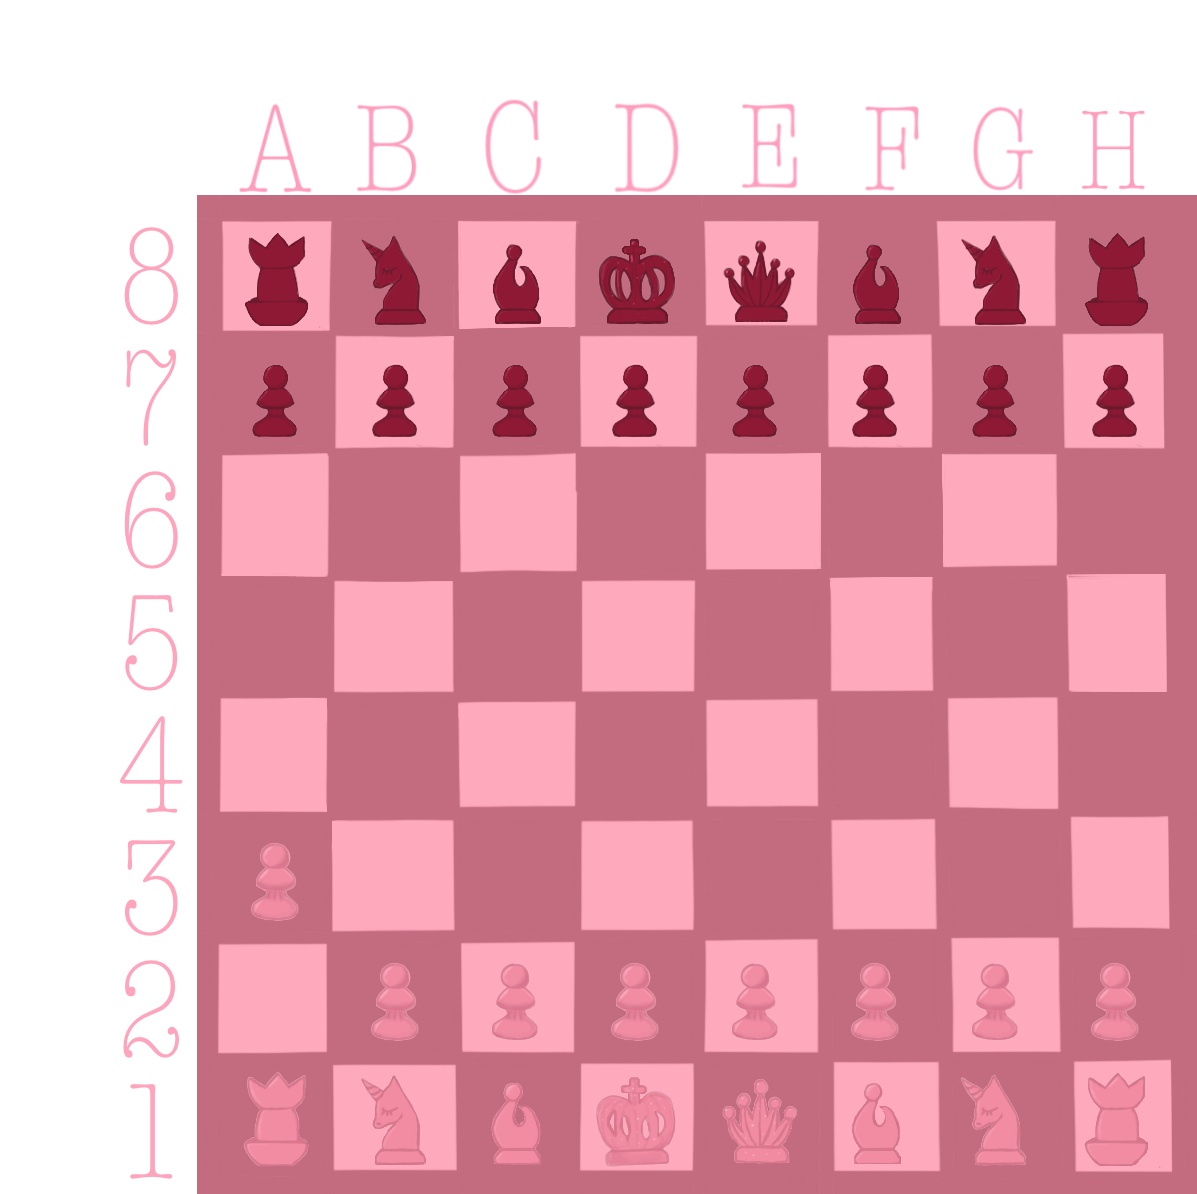
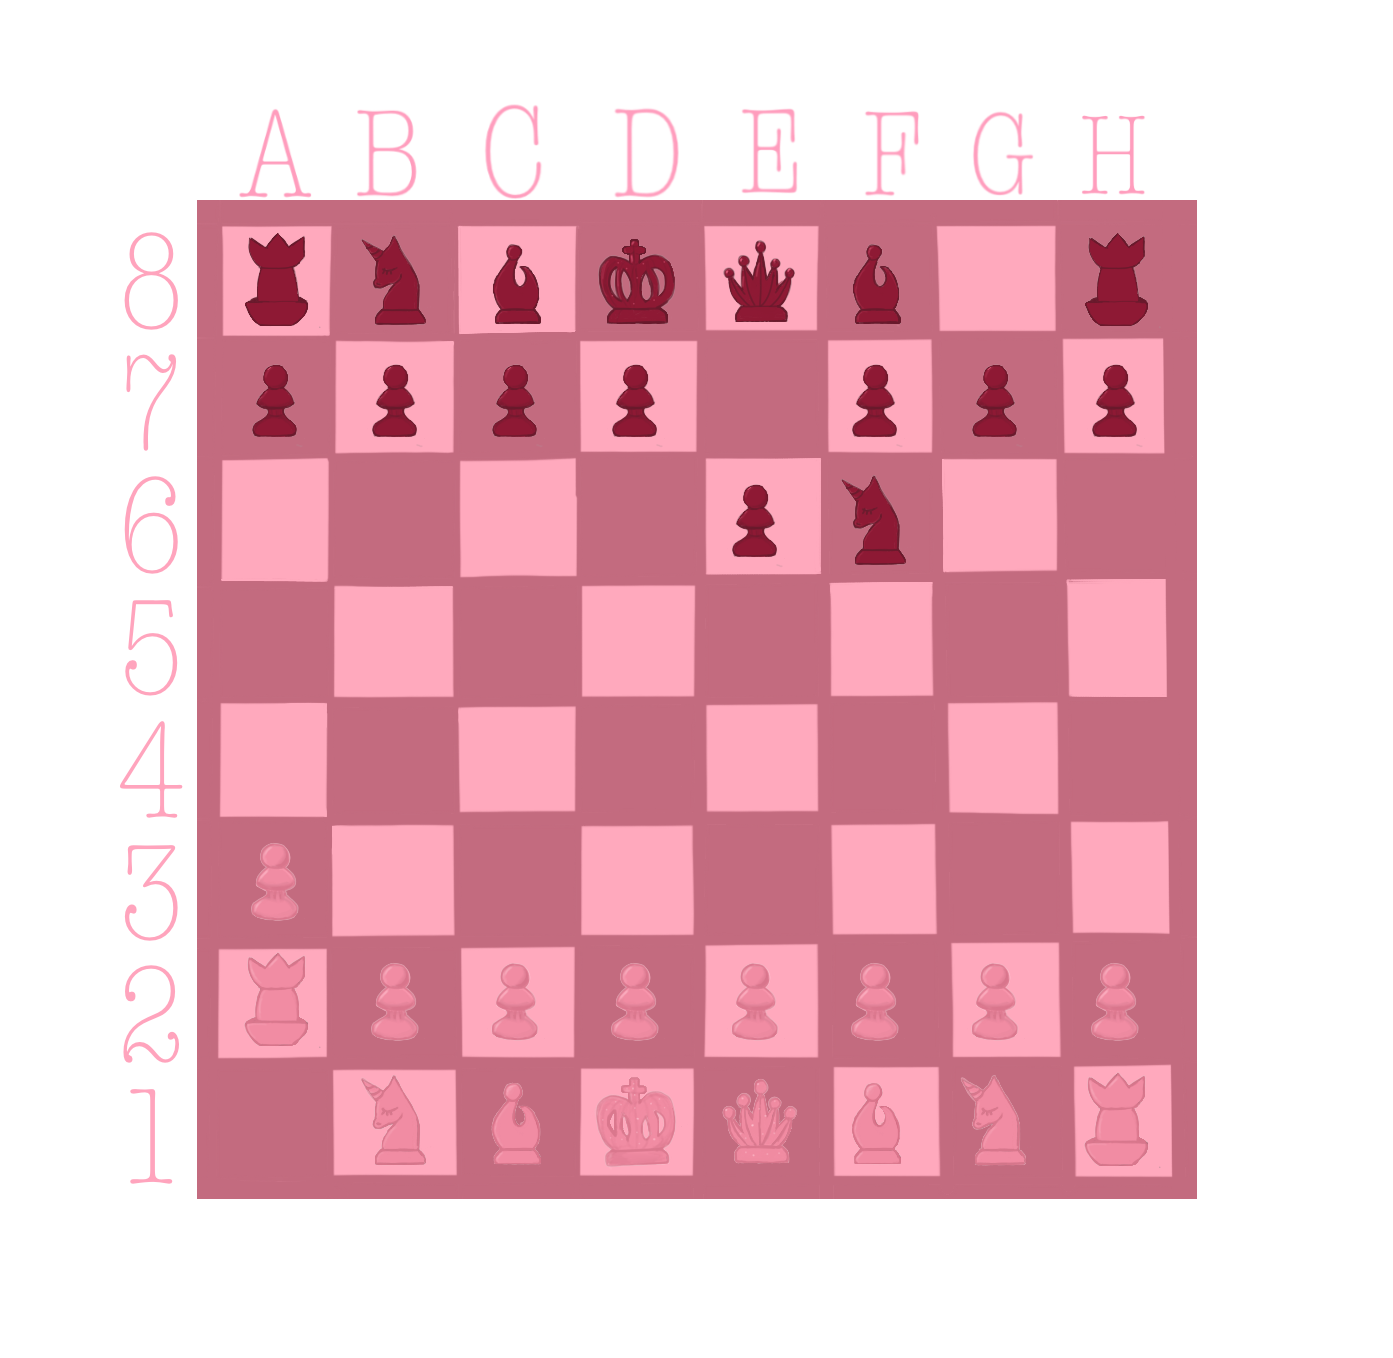
лил патч починита ладья и пешки хелп разделение на команды пошаговость

diff --git a/main.py b/main.py
@@ -6,7 +6,7 @@ from config import BOT_TOKEN
 from telegram import ReplyKeyboardMarkup, ReplyKeyboardRemove
 import telebot
 from image_board import draw_board
-import asyncio
+
 
 bot = telebot.TeleBot(BOT_TOKEN)
 logging.basicConfig(
@@ -15,55 +15,57 @@ logging.basicConfig(
 
 logger = logging.getLogger(__name__)
 
-reply_keyboard = [['/start']]
-markup = ReplyKeyboardMarkup(reply_keyboard, one_time_keyboard=False)
+start_reply_keyboard = [['/start']]
+hub_reply_keyboard = [['/find_game', '/rating'], ['/help', '/bye']]
+quit_reply_keyboard = [['/quit']]
+markup = ReplyKeyboardMarkup(start_reply_keyboard, one_time_keyboard=False)
 
 
 async def hello(update, context):
-    global reply_keyboard, markup
-    reply_keyboard = [['/find_game'], ['/rating', '/bye']]
-    markup = ReplyKeyboardMarkup(reply_keyboard, one_time_keyboard=False)
+    markup = ReplyKeyboardMarkup(hub_reply_keyboard, one_time_keyboard=False)
     db_parser.add_in_stats(update.message.chat.id)
     await update.message.reply_text('приветик(приветик)', reply_markup=markup)
     return 1
-
-
-async def start_game(update, context):
-    global BOARD
-    reply_keyboard = [['/quit']]
-    markup = ReplyKeyboardMarkup(reply_keyboard, one_time_keyboard=False)
-    await update.message.reply_text("начинаю игру", reply_markup=markup)
-    BOARD = chess.Board()
-    draw_board(BOARD.board)
-    await update.message.reply_photo('data/result.png')
-    return 2
 
 
 async def find_game(update, context):
     if db_parser.user_in_game(update.message.chat.id):
         BOARD = chess.Board()
         BOARD.board = db_parser.get_board(update.message.chat.id)
-        message = update.message.text.split()
-        move_chess = BOARD.move(message[0], message[1])
-        draw_board(BOARD.board)
-        await update.message.reply_photo('data/result.png',
-                                         caption=(move_chess if move_chess != 0 else f'{message[0]} -> {message[1]}'))
-        await context.bot.send_photo(chat_id=db_parser.get_foe(update.message.chat.id),
-                                     photo=open('data/result.png', 'rb'),
-                                     caption=('Противник делает: ' +
-                                              (move_chess if move_chess != 0 else f'{message[0]} -> {message[1]}')))
-        db_parser.update_board(update.message.chat.id, BOARD.board)
+        if db_parser.is_turn(update.message.chat.id)[0]:
+            message = update.message.text.split()
+            move_chess = BOARD.move(message[0], message[1], db_parser.is_turn(update.message.chat.id)[1])
+            draw_board(BOARD.board)
+            if move_chess:
+                await update.message.reply_photo('data/result.png',
+                                                 caption=f'**{move_chess}**',
+                                                 parse_mode='MarkdownV2')
+            else:
+                check_kings = BOARD.check_kings()
+                await update.message.reply_photo('data/result.png',
+                                                 caption=f'{message[0]} -> {message[1]}\n{check_kings}')
+                await context.bot.send_photo(chat_id=db_parser.get_foe(update.message.chat.id),
+                                             photo=open('data/result.png', 'rb'),
+                                             caption=f'Противник делает: {message[0]} -> {message[1]}\n{check_kings}')
+                db_parser.update_board(update.message.chat.id, BOARD.board)
+                db_parser.change_turn(update.message.chat.id)
+        else:
+            await update.message.reply_text('не твой ход жди пока противник походит')
     else:
-        reply_keyboard = [['/quit']]
-        markup = ReplyKeyboardMarkup(reply_keyboard, one_time_keyboard=False)
+        markup = ReplyKeyboardMarkup(quit_reply_keyboard, one_time_keyboard=False)
         await update.message.reply_text("ищу игру", reply_markup=markup)
         queue_users = db_parser.get_users_from_queue(update.message.chat.id)
         if queue_users:
             foe_user = queue_users[0][0]
             db_parser.delete_from_queue(foe_user)
             db_parser.create_board(int(str(update.message.chat.id) + str(foe_user)))
-            await update.message.reply_text('ПРИКОЛЯМБУС')
-            await context.bot.send_message(chat_id=foe_user, text='ПРИКОЛЯМБУС')
+            await update.message.reply_text(f'игра найдена подключаюсь к {bot.get_chat(foe_user).first_name}\n'
+                                            f'вы играете за белых',
+                                            reply_markup=markup, parse_mode='MarkdownV2')
+            await context.bot.send_message(chat_id=foe_user,
+                                           text=f'игра найдена подключаюсь к {update.message.chat.first_name}\n'
+                                                f'вы играете за черных',
+                                           reply_markup=markup, parse_mode='MarkdownV2')
             BOARD = chess.Board()
             BOARD.board = db_parser.get_board(update.message.chat.id)
             draw_board(BOARD.board)
@@ -75,19 +77,6 @@ async def find_game(update, context):
     return 2
 
 
-async def game(update, context):
-    global BOARD
-    message = update.message.text.split()
-    if BOARD:
-        move_chess = BOARD.move(message[0], message[1])
-        draw_board(BOARD.board)
-        await update.message.reply_photo('data/result.png', caption=(move_chess if move_chess != 0
-                                                                     else f'{message[0]} -> {message[1]}'))
-        return 2
-    else:
-        await update.message.reply_text('bbbb')
-
-
 async def rating(update, context):
     need_message = db_parser.get_rating(update.message.chat.id)
     await update.message.reply_text(f"общий рейтинг:{need_message[0]}\n"
@@ -96,19 +85,28 @@ async def rating(update, context):
 
 
 async def bye(update, context):
-    global reply_keyboard, markup
-    reply_keyboard = [['/start']]
-    markup = ReplyKeyboardMarkup(reply_keyboard, one_time_keyboard=False)
+    markup = ReplyKeyboardMarkup(start_reply_keyboard, one_time_keyboard=False)
     await update.message.reply_text("bye", reply_markup=markup)
     return ConversationHandler.END
 
 
 async def quit(update, context):
-    reply_keyboard = [['/find_game'], ['/rating', '/bye']]
-    markup = ReplyKeyboardMarkup(reply_keyboard, one_time_keyboard=False)
+    markup = ReplyKeyboardMarkup(hub_reply_keyboard, one_time_keyboard=False)
     db_parser.delete_from_queue(update.message.chat.id)
     await update.message.reply_text('выхожу из очереди', reply_markup=markup)
     return 1
+
+
+async def help(update, context):
+    await update.message.reply_text("""хелп
+    /find_game - найти игру
+    /rating - показать рейтинг ваш и других игроков
+    /bye - пока""")
+    return 1
+
+
+async def default_ans(update, context):
+    await update.message.reply_text('/help для хелп')
 
 
 def main():
@@ -116,7 +114,8 @@ def main():
     conv_handler = ConversationHandler(
         entry_points=[CommandHandler('start', hello)],
         states={
-            1: [CommandHandler('find_game', find_game), CommandHandler('rating', rating)],
+            1: [CommandHandler('find_game', find_game), CommandHandler('rating', rating), CommandHandler('help', help),
+                MessageHandler(filters.TEXT & ~filters.COMMAND, default_ans)],
             2: [MessageHandler(filters.TEXT & ~filters.COMMAND, find_game), CommandHandler('quit', quit)]
         },
         fallbacks=[CommandHandler('bye', bye)]

diff --git a/chess.py b/chess.py
@@ -23,7 +23,7 @@ class Board:
             King('b'), Bishop('b'), Knight('b'), Rook('b')
         ]
 
-    def move(self, pos1, pos2):
+    def move(self, pos1, pos2, turn=None):
         litterals = {'A': 0, 'B': 1, 'C': 2, 'D': 3, 'E': 4, 'F': 5, 'G': 6, 'H': 7}
         if len(pos1) == 2 and len(pos2) == 2 and pos1[1].isdigit() and pos2[1].isdigit():
             if pos1[0] in litterals.keys() and pos2[0] in litterals.keys() \
@@ -31,12 +31,24 @@ class Board:
                 new_pos1 = (8 - int(pos1[1]), litterals[pos1[0]])
                 new_pos2 = (8 - int(pos2[1]), litterals[pos2[0]])
                 if self.board[new_pos1[0]][new_pos1[1]]:
+                    if not ((not turn is None) and (not turn and self.board[new_pos1[0]][new_pos1[1]].team == 'w'
+                                                    or turn and self.board[new_pos1[0]][new_pos1[1]].team == 'b')):
+                        return 'не твоя фигура'
                     if self.board[new_pos1[0]][new_pos1[1]].move_to(self.board, new_pos1, new_pos2) == 0:
                         self.board[new_pos2[0]][new_pos2[1]] = self.board[new_pos1[0]][new_pos1[1]]
                         self.board[new_pos1[0]][new_pos1[1]] = None
                         return 0
                     return self.board[new_pos1[0]][new_pos1[1]].move_to(self.board, new_pos1, new_pos2)
         return 'хдд'
+
+    def check_kings(self):
+        res = []
+        for y in range(len(self.board)):
+            for x in range(len(self.board[0])):
+                if self.board[y][x].__class__.__name__ == 'King':
+                    if self.board[y][x].is_in_danger(self.board, (y, x)) != 0:
+                        res.append('шах ' + self.board[y][x].team)
+        return res.join('\n')
 
 
 class Piece:
@@ -70,7 +82,10 @@ class Pawn(Piece):
     def move_to(self, board, pos1, pos2, kings_check=True):
         if self.general_check(board, pos1, pos2):
             return self.general_check(board, pos1, pos2)
-        if (self.team == 'w' and pos1[0] - pos2[0] == 1) or (self.team == 'b' and pos2[0] - pos1[0] == 1):
+        if (self.team == 'w' and pos1[0] - pos2[0] == 1 or (pos1[0] - pos2[0] == 2 and pos1[0] == 6 and
+                                                            not board[pos2[0]][pos2[1]])) or\
+            (self.team == 'b' and pos2[0] - pos1[0] == 1 or (pos2[0] - pos1[0] == 2 and pos1[0] == 1 and
+                                                             not board[pos2[0]][pos2[1]])):
             if (board[pos2[0]][pos2[1]] and abs(pos2[1] - pos1[1]) == 1) or \
                     ((not board[pos2[0]][pos2[1]]) and pos2[1] - pos1[1] == 0):
                 if kings_check:
@@ -87,7 +102,7 @@ class Rook(Piece):
     def move_to(self, board, pos1, pos2, kings_check=True):
         if self.general_check(board, pos1, pos2):
             return self.general_check(board, pos1, pos2)
-        if pos2[0] == pos1[0] and pos2[1] != pos2[0] or pos2[0] != pos1[0] and pos2[1] == pos2[0]:
+        if pos2[0] == pos1[0] and pos2[1] != pos1[1] or pos2[0] != pos1[0] and pos2[1] == pos1[1]:
             if pos2[0] == pos1[0]:
                 if any([board[pos1[0] + i * ((pos2[0] - pos1[0]) / abs(pos2[0] - pos1[0]))][pos1[1]]
                         for i in range(abs(pos2[0] - pos1[0]))]):

diff --git a/db_parser.py b/db_parser.py
@@ -20,13 +20,13 @@ def add_in_stats(id):
     con.commit()
     con.close()
 
+
 def get_rating(id):
     con = sqlite3.connect("dbs/stats.sqlite")
     cur = con.cursor()
     res1 = cur.execute(f"SELECT user_id, rating FROM stats").fetchmany(10)
     res2 = cur.execute(f"SELECT user_id, rating FROM stats WHERE user_id == {id}").fetchone()
     return res1, res2
-
 
 
 def add_in_queue(id):
@@ -64,6 +64,8 @@ def create_board(id):
                     for x in brd])
     con = sqlite3.connect("dbs/boards.sqlite")
     cur = con.cursor()
+    id = str(id)
+    cur.execute(f"DELETE from boards where user_id = '{id}' or user_id = '{id[:len(id) // 2] + id[len(id) // 2:]}'")
     cur.execute(f"INSERT INTO boards(user_id, board) VALUES('{id}', '{brd}')")
     con.commit()
     con.close()
@@ -123,6 +125,32 @@ def get_foe(id):
     for i in res:
         if id in (i[:len(i) // 2], i[len(i) // 2:]):
             return int(i[:len(i) // 2]) if id != i[:len(i) // 2] else int(i[len(i) // 2:])
+
+
+def is_turn(id):
+    con = sqlite3.connect("dbs/boards.sqlite")
+    cur = con.cursor()
+    res = cur.execute(f"SELECT user_id, move FROM boards").fetchall()
+    con.commit()
+    con.close()
+    id = str(id)
+    for i in res:
+        print(i)
+        if id in (i[0][:len(i[0]) // 2], i[0][len(i[0]) // 2:]):
+            if id == i[0][:len(i[0]) // 2] and i[1] == 0 or id == i[0][len(i[0]) // 2:] and i[1] == 1:
+                return True, i[1]
+            return False, i[1]
+
+
+def change_turn(id):
+    con = sqlite3.connect("dbs/boards.sqlite")
+    cur = con.cursor()
+    res = cur.execute(f"""SELECT move FROM boards 
+    where user_id = '{str(id) + str(get_foe(id))}' or user_id = '{str(get_foe(id)) + str(id)}'""").fetchone()
+    cur.execute(f"""UPDATE boards SET move = '{1 if res[0] == 0 else 0}' 
+    where user_id = '{str(id) + str(get_foe(id))}' or user_id = '{str(get_foe(id)) + str(id)}'""")
+    con.commit()
+    con.close()
 
 
 if __name__ == '__main__':
